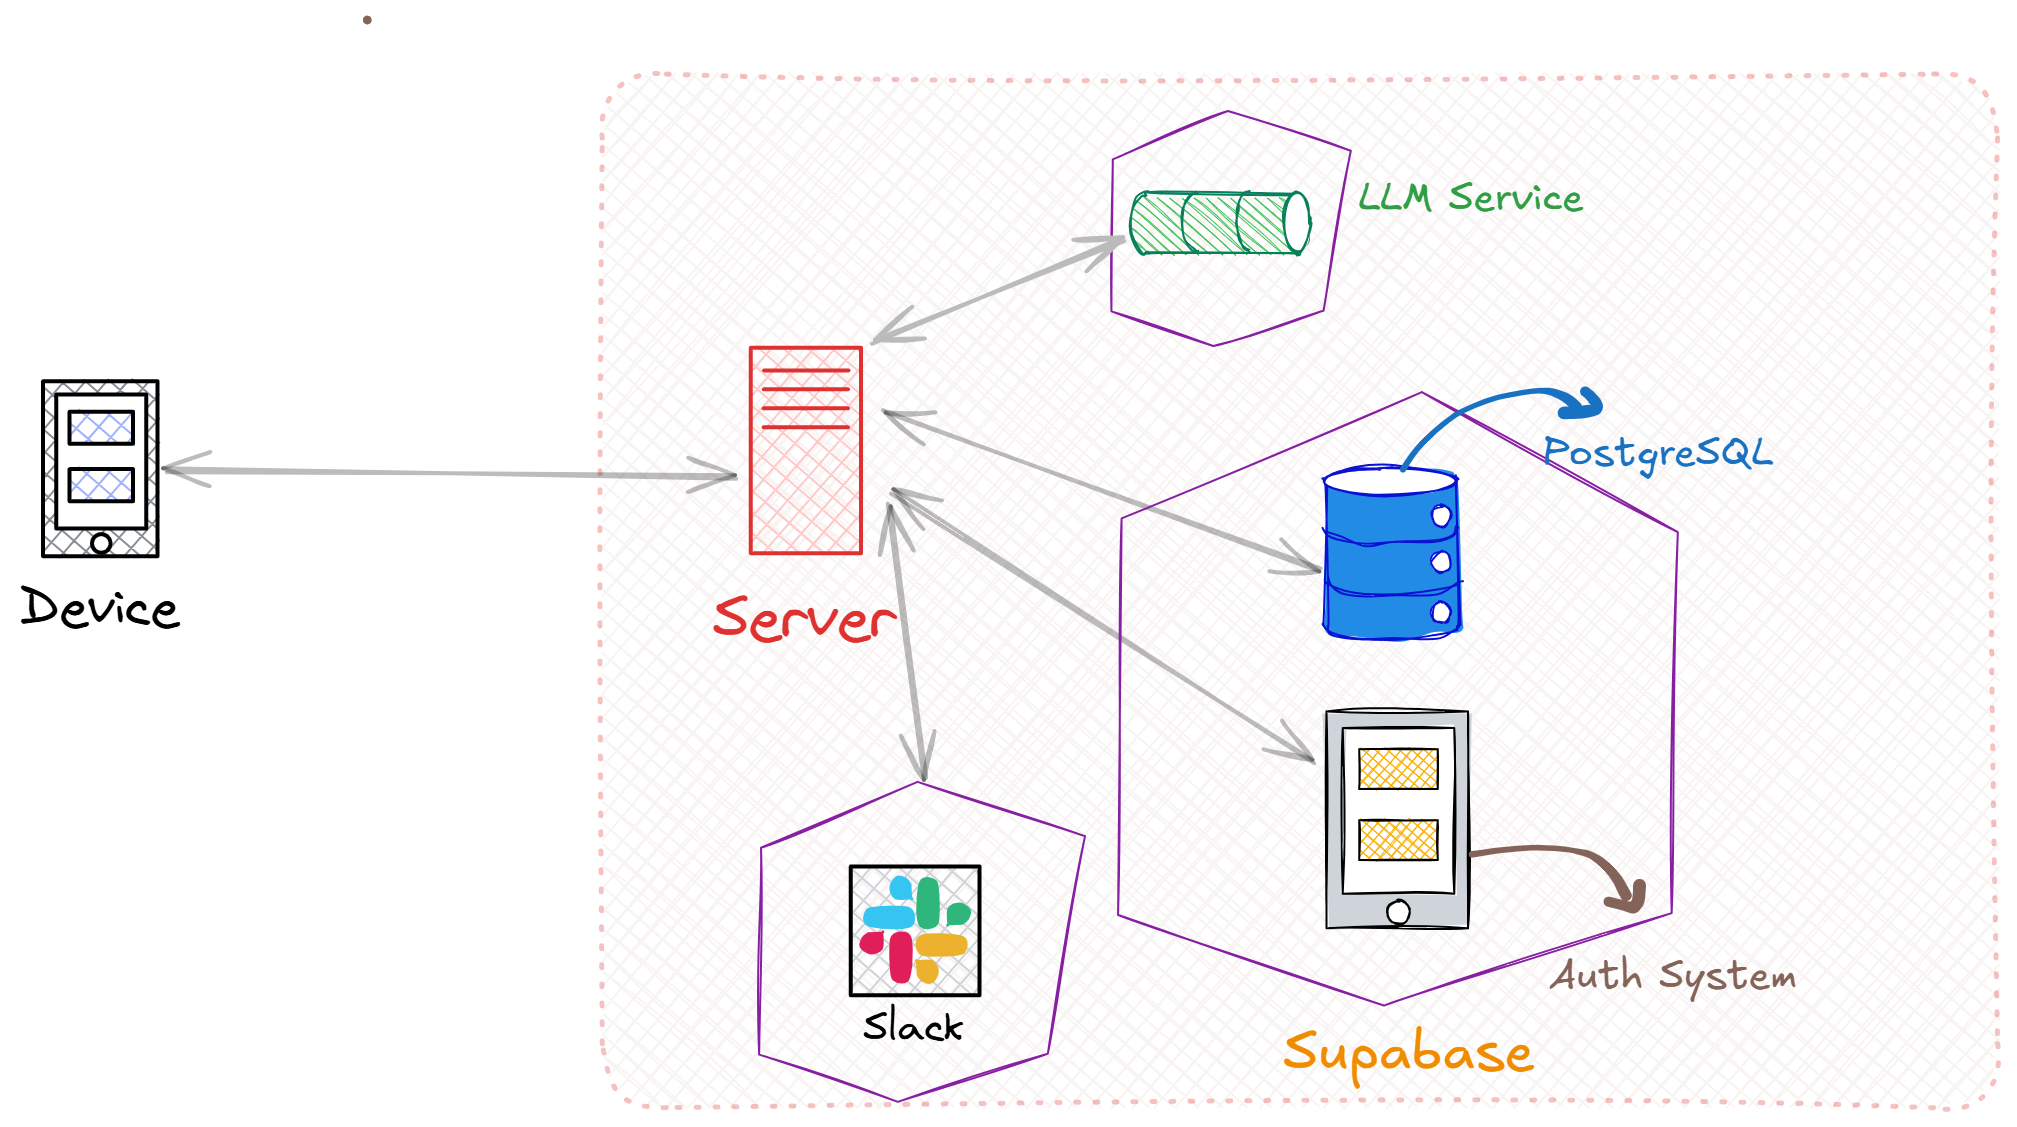
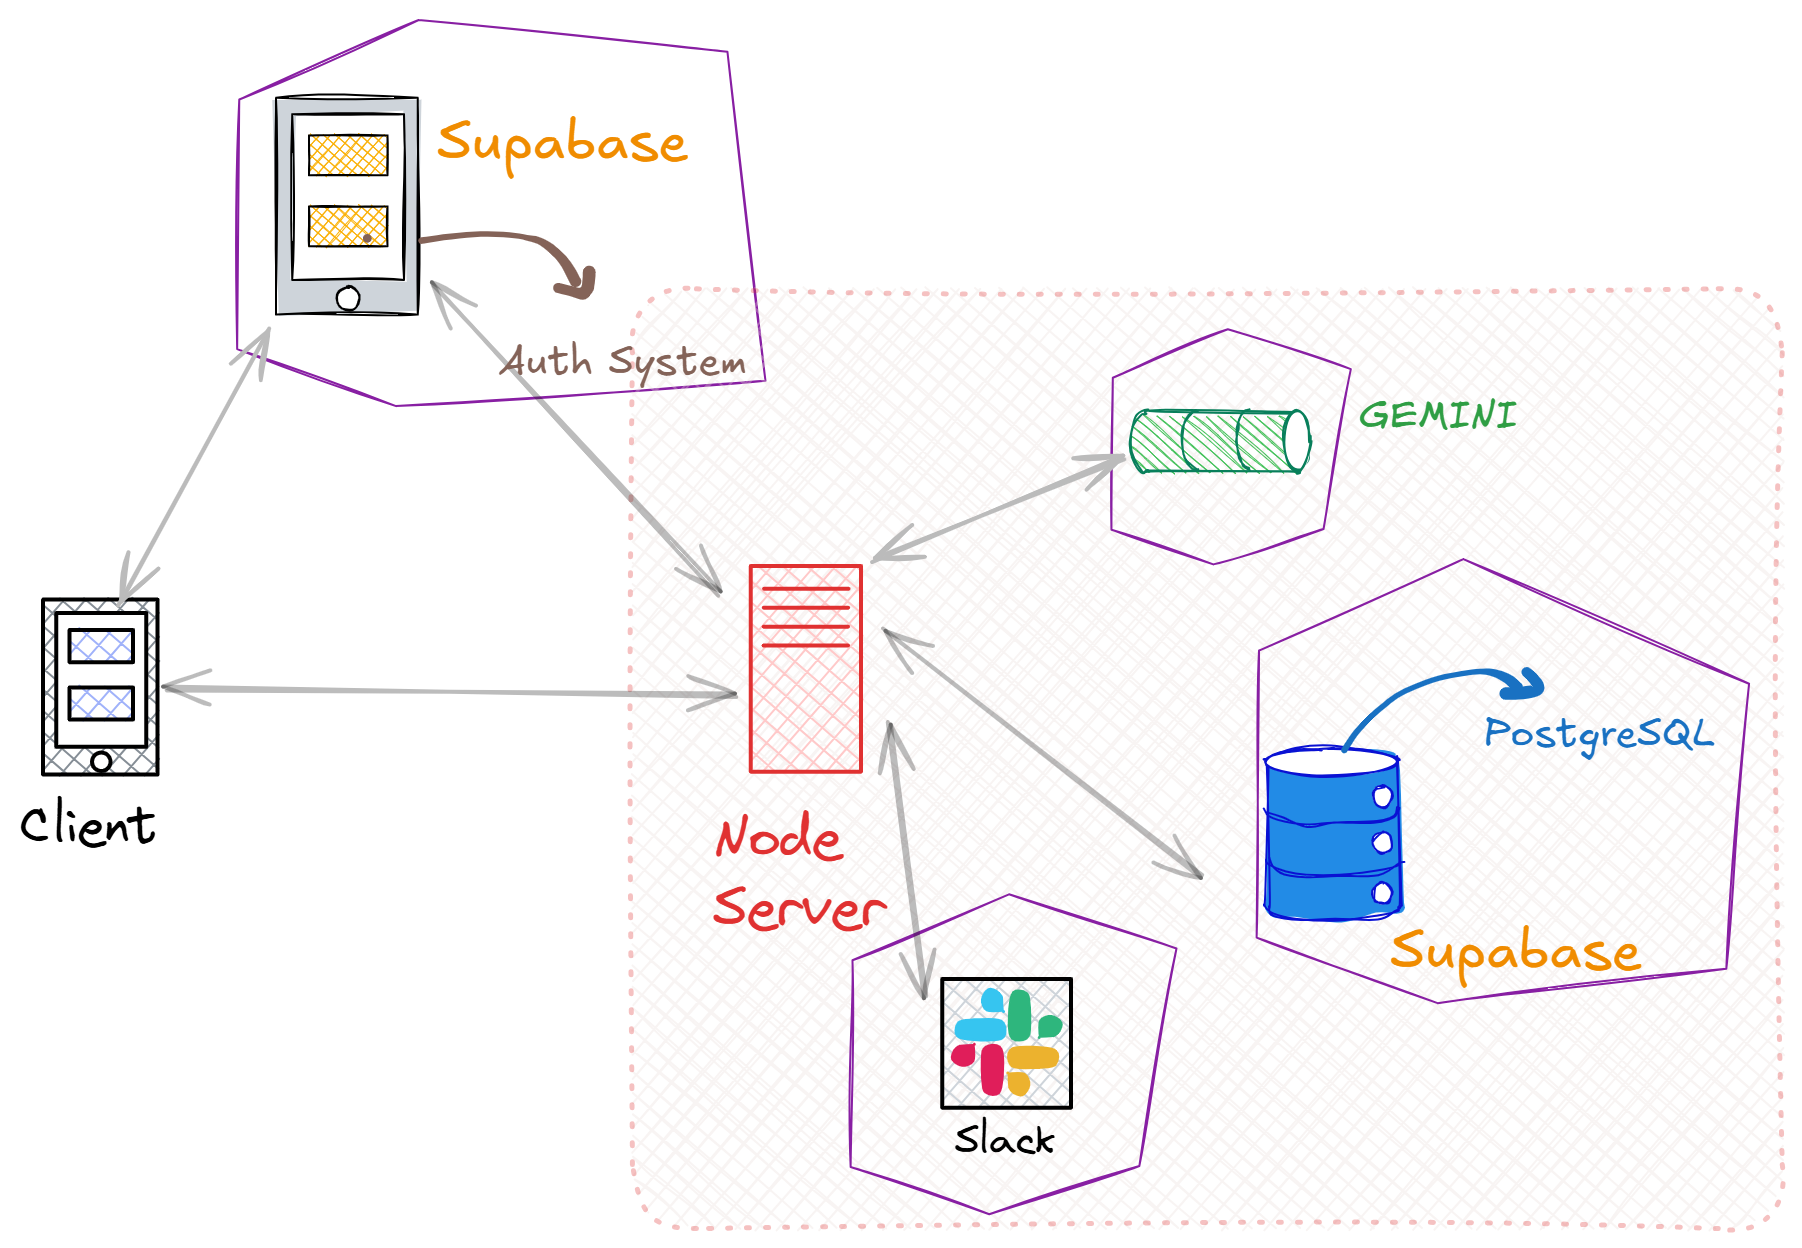
Add README.md with project overview, requirements, and setup instructions; update design diagram

diff --git a/README.md b/README.md
@@ -1,0 +1,90 @@
+# Todo Summary Assistant
+
+## Objective
+Build a fully functional full-stack application where a user can:
+- Create and manage personal to-do items.
+- Click a button to summarize all pending to-dos using an actual LLM (e.g., OpenAI, Anthropic, Cohere, Mistral, Gemini, etc.).
+- Send the generated summary to a Slack channel.
+
+## Requirements
+
+### Frontend
+- Use React to build the UI.
+- **Functionality:**
+    - Add, edit, delete to-do items.
+    - View list of current to-dos.
+    - A button to generate and send the summary.
+    - Show a success/failure message for the Slack operation.
+
+### Backend
+- Use Node.js (Express).
+- The backend should expose the following endpoints:
+    - `GET /todos` – Fetch all todos.
+    - `POST /todos` – Add a new todo.
+    - `DELETE /todos/:id` – Delete a todo.
+    - `POST /summarize` – Summarize todos and send to Slack.
+
+### LLM Integration
+- Integrate with a real LLM API (like OpenAI, Cohere, Gemini, or similar with free-tier access).
+- Use the LLM to summarize the to-do list meaningfully — don’t simulate or mock this.
+
+### Slack Integration
+- Use Slack Incoming Webhooks to post the summary to a Slack channel.
+- Include instructions for how to configure this in your README.
+
+### Hosting & Database
+- Use Supabase for backend/database hosting.
+- You may use a free-tier PostgreSQL/Supabase DB to store the to-dos.
+
+## Stack Flexibility
+You are free to choose your own stack and tools (within the boundaries above) as long as:
+- You use React for the frontend.
+- The backend is built in Node.js.
+- You integrate with a real LLM API and Slack.
+- The core functionality and flow are implemented as described.
+
+This assignment is about solving the problem using working integrations. Creativity and implementation details are up to you.
+
+## Design and Architecture Decisions
+
+The application is designed as a decoupled full-stack application with a React frontend and a Node.js (Express) backend.
+
+![High-Level Design](./design/HLD.png)
+
+### Architecture Overview:
+-   **Frontend**: The React-based frontend is the primary interface for users. It handles user interactions, such as creating, viewing, editing, and deleting to-do items.
+    -   **Authentication**: The frontend integrates with Supabase Authentication to manage user sign-up, sign-in, and session management.
+    -   **API Interaction**: It communicates with the backend via RESTful APIs to perform CRUD operations on to-dos and to trigger the summarization process.
+-   **Backend**: The Node.js (Express) backend serves as the application's core logic and data management layer.
+    -   **API Endpoints**: It exposes REST APIs for the frontend to consume.
+    -   **Authorization**: For protected routes, the backend verifies the JWT token (obtained from Supabase Auth) sent by the frontend to ensure the user is authenticated and authorized.
+    -   **Database Interaction**: The backend interacts with a PostgreSQL database hosted on Supabase to store and retrieve to-do items.
+    -   **LLM Integration**: It integrates with the Gemini API to generate summaries of pending to-do items.
+    -   **Slack Integration**: It uses Slack Incoming Webhooks to send the generated summaries to a pre-configured Slack channel.
+
+### Design Rationale:
+-   **Loose Coupling**: Separating the frontend and backend allows for independent development, scaling, and deployment.
+-   **Modularity & Reusability**: The architecture promotes a modular design. For instance, the authentication service (Supabase Auth) is a distinct module, and the database interaction is handled by a dedicated service layer in the backend.
+-   **Avoiding Vendor Lock-in**: While Supabase is used for authentication and database services, the core application logic is designed to be relatively independent. This allows for easier migration to different service providers or self-hosted solutions if needed in the future. For example, the database interaction can be abstracted further to support other SQL databases, and authentication logic can be adapted for other OAuth providers.
+-   **Clear Separation of Concerns**: The frontend is responsible for presentation and user interaction, while the backend handles business logic, data processing, and third-party integrations.
+
+## Setup Instructions for local run
+
+For detailed setup and execution instructions, please navigate to the respective directories:
+
+-   **Frontend:** [./frontend/README.md](./frontend/README.md)
+-   **Backend:** [./backend/README.md](./backend/README.md)
+
+## Live Preview
+
+You can access a live preview of the application here: [https://todo-summary-assistant-frontend.onrender.com/](https://todo-summary-assistant-frontend.onrender.com/)
+
+**Note:** Since the application is hosted on a free platform, it might take a minute or two for the initial content to load. Please be patient.
+
+---
+
+To learn more about the frontend or backend, or to run them, please navigate to their respective directories:
+
+-   **Frontend:** [./frontend/README.md](./frontend/README.md)
+-   **Backend:** [./backend/README.md](./backend/README.md)
+
